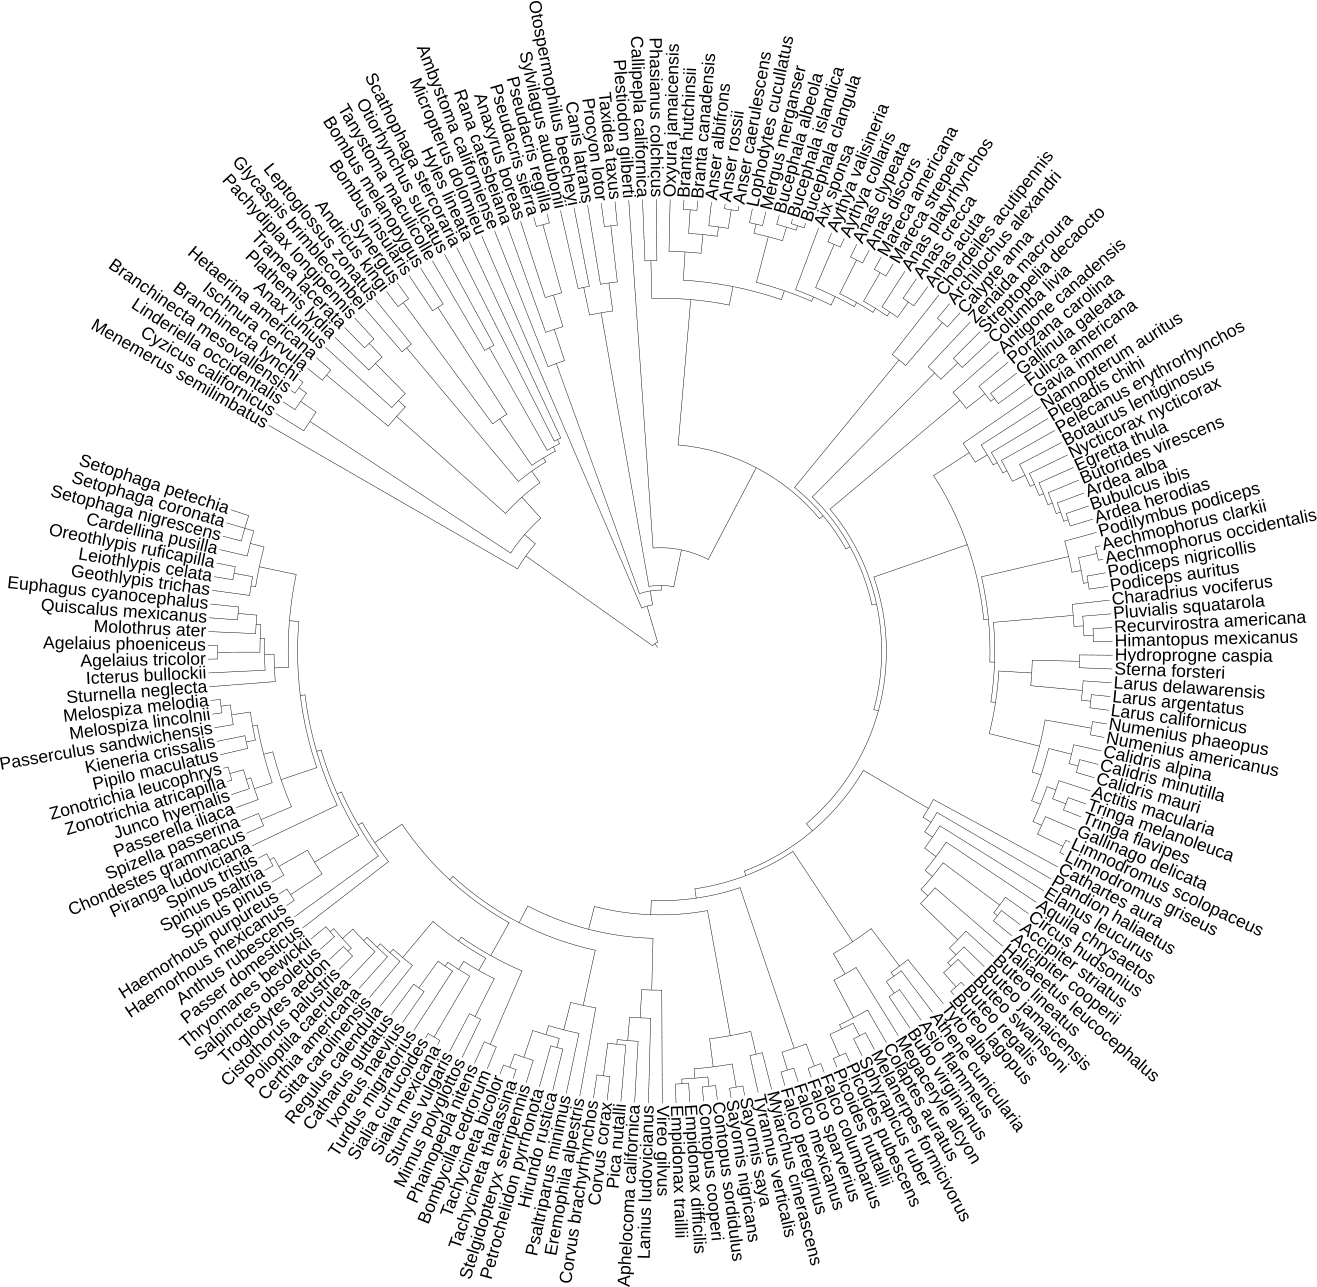
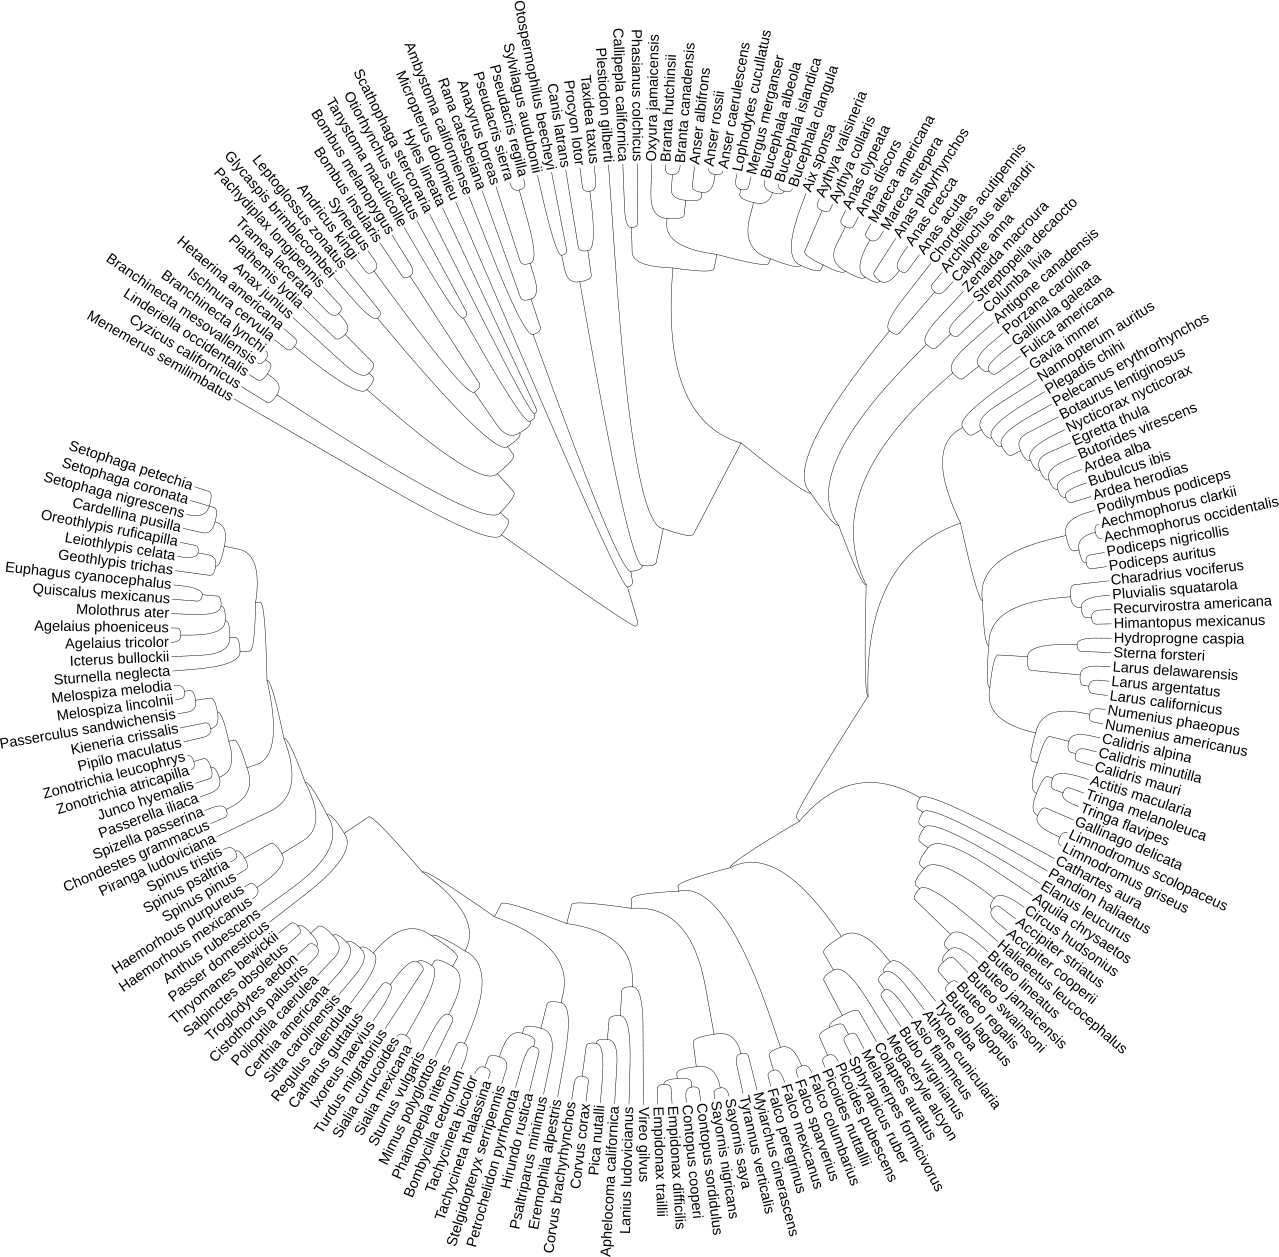
stashed changes

diff --git a/docs/draft/python-opentree.tex b/docs/draft/python-opentree.tex
@@ -92,7 +92,7 @@ Many analyses integrate calls to each of these subcomponents.
 The `opentree' package links across these services to make common API calls easier.
 Some example calls are described here, but all methods and scripts are fully documented, including examples and return formats at \url{https://opentree.readthedocs.io/en/latest/}.
 
-\subsubsection{Synthetic tree.---} The OpenTree synthetic tree contains all XX taxa in the OpenTree taxonomy, with relationships informed by XX studies.
+\subsubsection{Synthetic tree.---} The OpenTree synthetic tree contains all 2.4 million taxa in the OpenTree taxonomy, with relationships for 87,000 taxa informed by 1,216 studies.
 Each branch in the tree is informed by published phylogenetic relationships, where they are present in the curated data store, or by taxonomic relationships where no phylogenetic data is available.
 For each node in the synthetic tree, the API returns identifiers for
 all the trees in the synthesis pipeline which support or conflict with that node.
@@ -118,7 +118,7 @@ This TNRS forms a link between human readable name strings, and rigorous unique 
 \texttt{opentree} wraps the OpenTree taxonomy and TNRS APIs for ease of integrating taxonomy and TNRS queries with downstream analyses. In addition, \texttt{opentree} provides helpers for quickly searching the text download of the taxonomy, which can be more efficient for bulk queries.
 
 
-\subsubsection{Study search.---} The OpenTree datastore contains XXX published phylogenetic studies, including XX phylogenetic trees.
+\subsubsection{Study search.---} The OpenTree datastore contains 4,468 published phylogenetic studies, including 9395 phylogenetic trees (as of Dec 4, 2020).
 These studies and trees are indexed on a number of properties including author name, curator name, and publication information. 
 In addition, the tips of these trees are mapped to the unified Open Tree taxonomy making comparisons among estimates, and searching for taxa of interest straightforward.
 This allows searching of studies based on taxa contained in the study.
@@ -156,7 +156,8 @@ Some of the non-monophyletic taxa map to internal nodes on our output tree. Inpu
 
 \begin{figure}[!p]
 \centering\includegraphics[width=\textwidth]{bird_fam_fig}
-\caption{Relationships of 150 bird families, showing the number of published phylogenetic studies which support and conflict with each branch in the tree. For families which are not monophyletic according to published phylogenies, tips for those families are labelled with 'MRCA of taxa in Family name'. Heat maps show the number of tip taxa descendants from each tip, in log scale on left, and in exact numbers on left. Branch colors show the number of input studies which support (left, green) or conflict with (right, red) each inferred branch in the super tree. Branch lengths are arbitrary. A total of 64 published phylogenies underlie the relationships in this tree (supplemental cites?)}
+
+\caption{Relationships of 150 bird families, showing the number of published phylogenetic studies which support and and conflict with each branch in the tree. For families which are not monophyletic according to published phylogenies, tips for those families are labelled with 'MRCA of taxa in Family name'. Heat maps show the number of tip taxa descendants from each tip, in log scale on left, and in exact numbers on left. Branch colors show the number of input studies which support (left, green) or conflict with (right, red) each inferred branch in the super tree. Branch lengths are arbitrary. A total of 64 published phylogenies underlie the relationships in this tree (supplemental cites?). Figure created using \citep{letunic_interactive_2019}}
 \label{birdfams}
 \end{figure}
 
@@ -177,25 +178,29 @@ This tree shows only topology. When combing taxonomy, and phylogenetic branches 
 
 \bigskip
 
-
-The University of California, Merced has a natural reserve directly adjacent to campus, at contains several vernal pools. These vernal pools create a unique habitat which allows native species to thrive, and the proximity to campus allows undergraduate classes to experience this ecosystem on field trips which can be accomplished during class time. As part of a class exercise on vernal pools ecology and evolution, we created an evolutionary tree of all the animal species observed at the UC Merced Vernal Pools natural preserve. 
-
+The University of California, Merced has a natural reserve directly adjacent to campus, at contains several vernal pools. These vernal pools create a unique habitat which allows native species to thrive, and the proximity to campus allows undergraduate classes to experience this ecosystem on field trips which can be accomplished during class time. 
 We accessed a species list for the reserve and adjacent campus ares using Global Biodiversity Information Facility (GBIF) website \citep{global_biodiversity_information_facility_gbif_2019}. GBIF provides a repository for species occurrence data stored in a variety of repositories, including bird observations from eBird (cite), community science observations from iNaturalist (cite), and several other resources. A full tutorial demonstrating how to access a tree for a GBIF data download is packaged with the software at \url{https://github.com/OpenTreeOfLife/python-opentree/blob/main/docs/notebooks/gbif/GBIF_to_OpenTree.ipynb}.
 
+<<<<<<< Updated upstream
 
 We downloaded the full list of animal observations from the UC Merced Vernal pools reserve from GBIF \citep{global_biodiversity_information_facility_gbif_2019}. This data download comprised 6,709 records from 223 species. Using the GBIF unique taxon identifiers, 201 of these species could be directly matched to taxa in the opentree taxonomy using \texttt{opentree.taxon\_info(source\_id = {gbif unique identifier})}. This direct matching captures exact one to one relationships between these taxonomies, and avoids slow and potentially error prone string matching. 19 taxa had updated identifiers in GBIF since the most recent reconciliation between the GBIF taxonomy and the OpenTree taxonomy, and were assigned OpenTree taxon identifiers based on exact string matches. There were two taxa ``\textit{P. abortivum} St.'' and ``\textit{Ichneumon cupitus} Cresson 1877'', which were not found in the OpenTree taxonomy, and were dropped form the analysis.
- 
+
+
 Using this set of 223 OpenTree unique identifiers, an induced synthetic tree for these taxa can be downloaded. This tree is supported by 104 individual published trees (supplemental cites).
 
-One of us (EJM) used this phylogeney to discuss the diversity of life of animal life in introductory biology and evolution classes on campus.
-There are several threatened and endangered species on the vernal pools reserve, including the \textit{Branchinecta lynchii} (threatened) and \textit{Branchinecta mesovallensis} (endangered). 
-By building a phylogenetic tree of taxa found on and around campus, tree thinking examples in class can have a direct connection for students. For example, this tree shows that the genus \textit{Anas} does not form a monophyletic group. Walking the tree of life has been demonstrated to be an effective way to get studnts to understand the connections among different lineages of life on earth \citep{ballen_walking_2017}. Walking through this tree, and labelling major animal groups allows students to connect to the diversity of animal life based on the actual species surrounding them, rather than arbitrary textbook examples.
 
-For researchers, this tree also provides the necessary information for community phylogenetic analyses. \citet{li_for_2019} domesticated that synthetic phylogenies from the OpenTree project perform well in community phylogenetic studies. By providing ready access to these estimates, based on 160 previously published trees, OpenTree makes basing ecological analyses in an accurate evolutionary framework straightforward.
+For researchers, working in the vernal pools reserve, this tree also provides the necessary information for community phylogenetic analyses. \citet{li_for_2019} domesticated that synthetic phylogenies from the OpenTree project perform well in community phylogenetic studies. By providing ready access to these estimates, based on 160 previously published trees, OpenTree makes basing ecological analyses in an accurate evolutionary framework straightforward.
+
+
+The ability to build a phylogeny of local taxa is also a valuable pedagogical tool. One of us (EJM) used this phylogeney to discuss the diversity of life of animal life as part of a class exercise on vernal pools ecology and evolution, in an undergraduate evolution class. 
+Students visited the Natural Reserve, and then explored the evolutionary tree of all the animal species observed at the UC Merced Vernal Pools natural preserve. 
+We used this phylogeny to discuss the diversity of life of animal life in introductory biology and evolution classes on campus.
+There are several threatened and endangered species on the vernal pools reserve, including the \textit{Branchinecta lynchii} (threatened) and \textit{Branchinecta mesovallensis} (endangered). 
+By building a phylogenetic tree of taxa found on and around campus, tree thinking examples in class can have a direct connection for students. For example, this tree shows that the genus \textit{Anas} does not form a monophyletic group. Walking the tree of life has been demonstrated to be an effective way to get students to understand the connections among different lineages of life on earth \citep{ballen_walking_2017}. Walking through this tree, and labelling major animal groups allows students to connect to the diversity of animal life based on the actual species surrounding them, rather than arbitrary textbook examples.
 
 \begin{figure}[!p]
 \centering\includegraphics[width=\textwidth]{vernal_animals}
-\caption{Evolutionary relationships between all taxon records in the UC Merced Vernal Pools Natural reserve. Branch lengths are arbitrary. A total of 64 published phylogenies underlie the relationships in this tree (supplemental cites?)}
+\caption{Evolutionary relationships between all taxon records in the UC Merced Vernal Pools Natural reserve. Branch lengths are arbitrary. A total of 64 published phylogenies underlie the relationships in this tree (supplemental cites?). Figure created using \citep{letunic_interactive_2019}}
 \label{vernalanimals}
 \end{figure}
 
